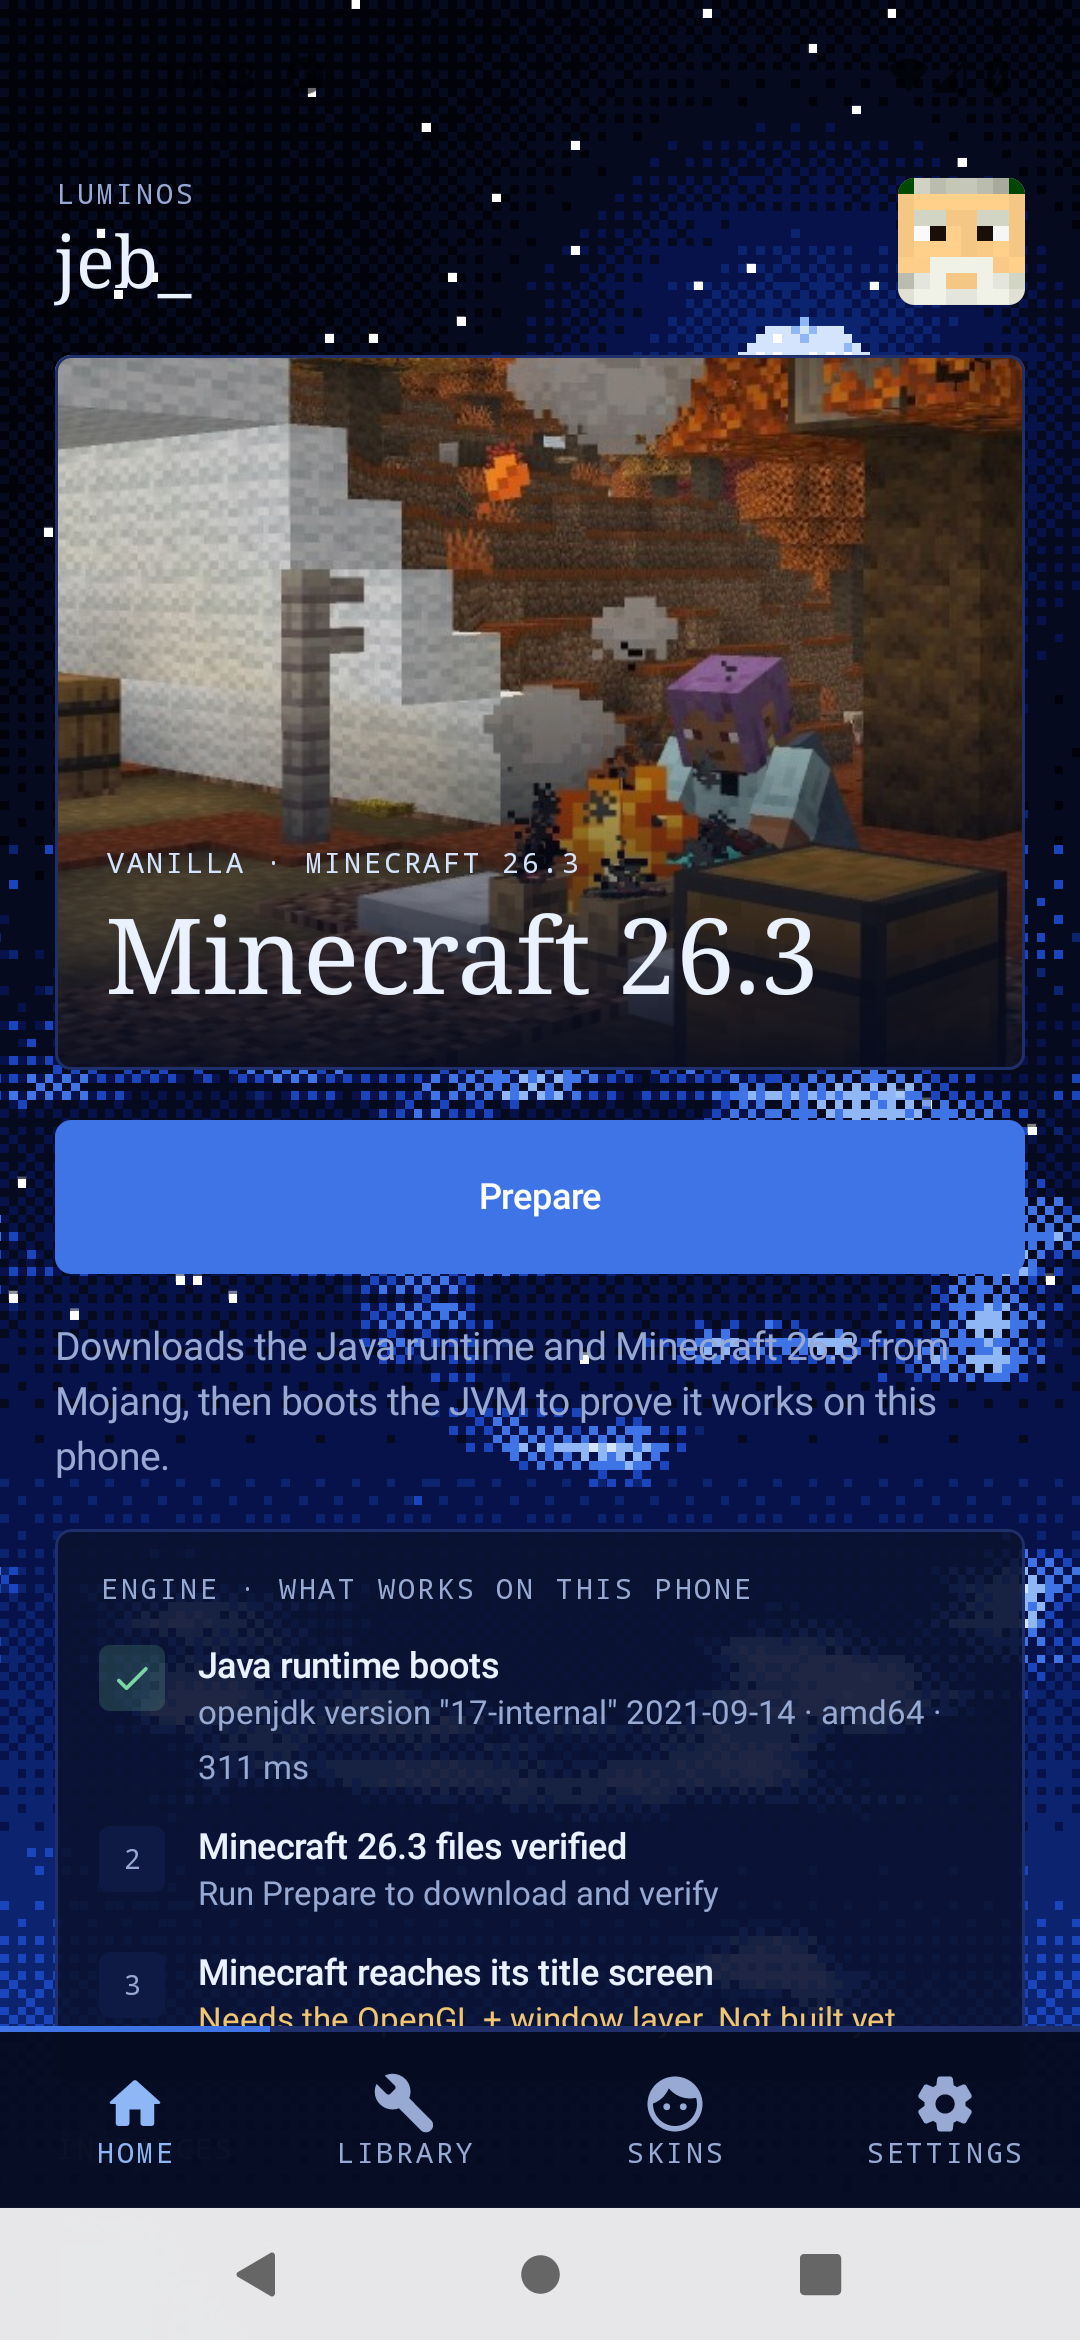
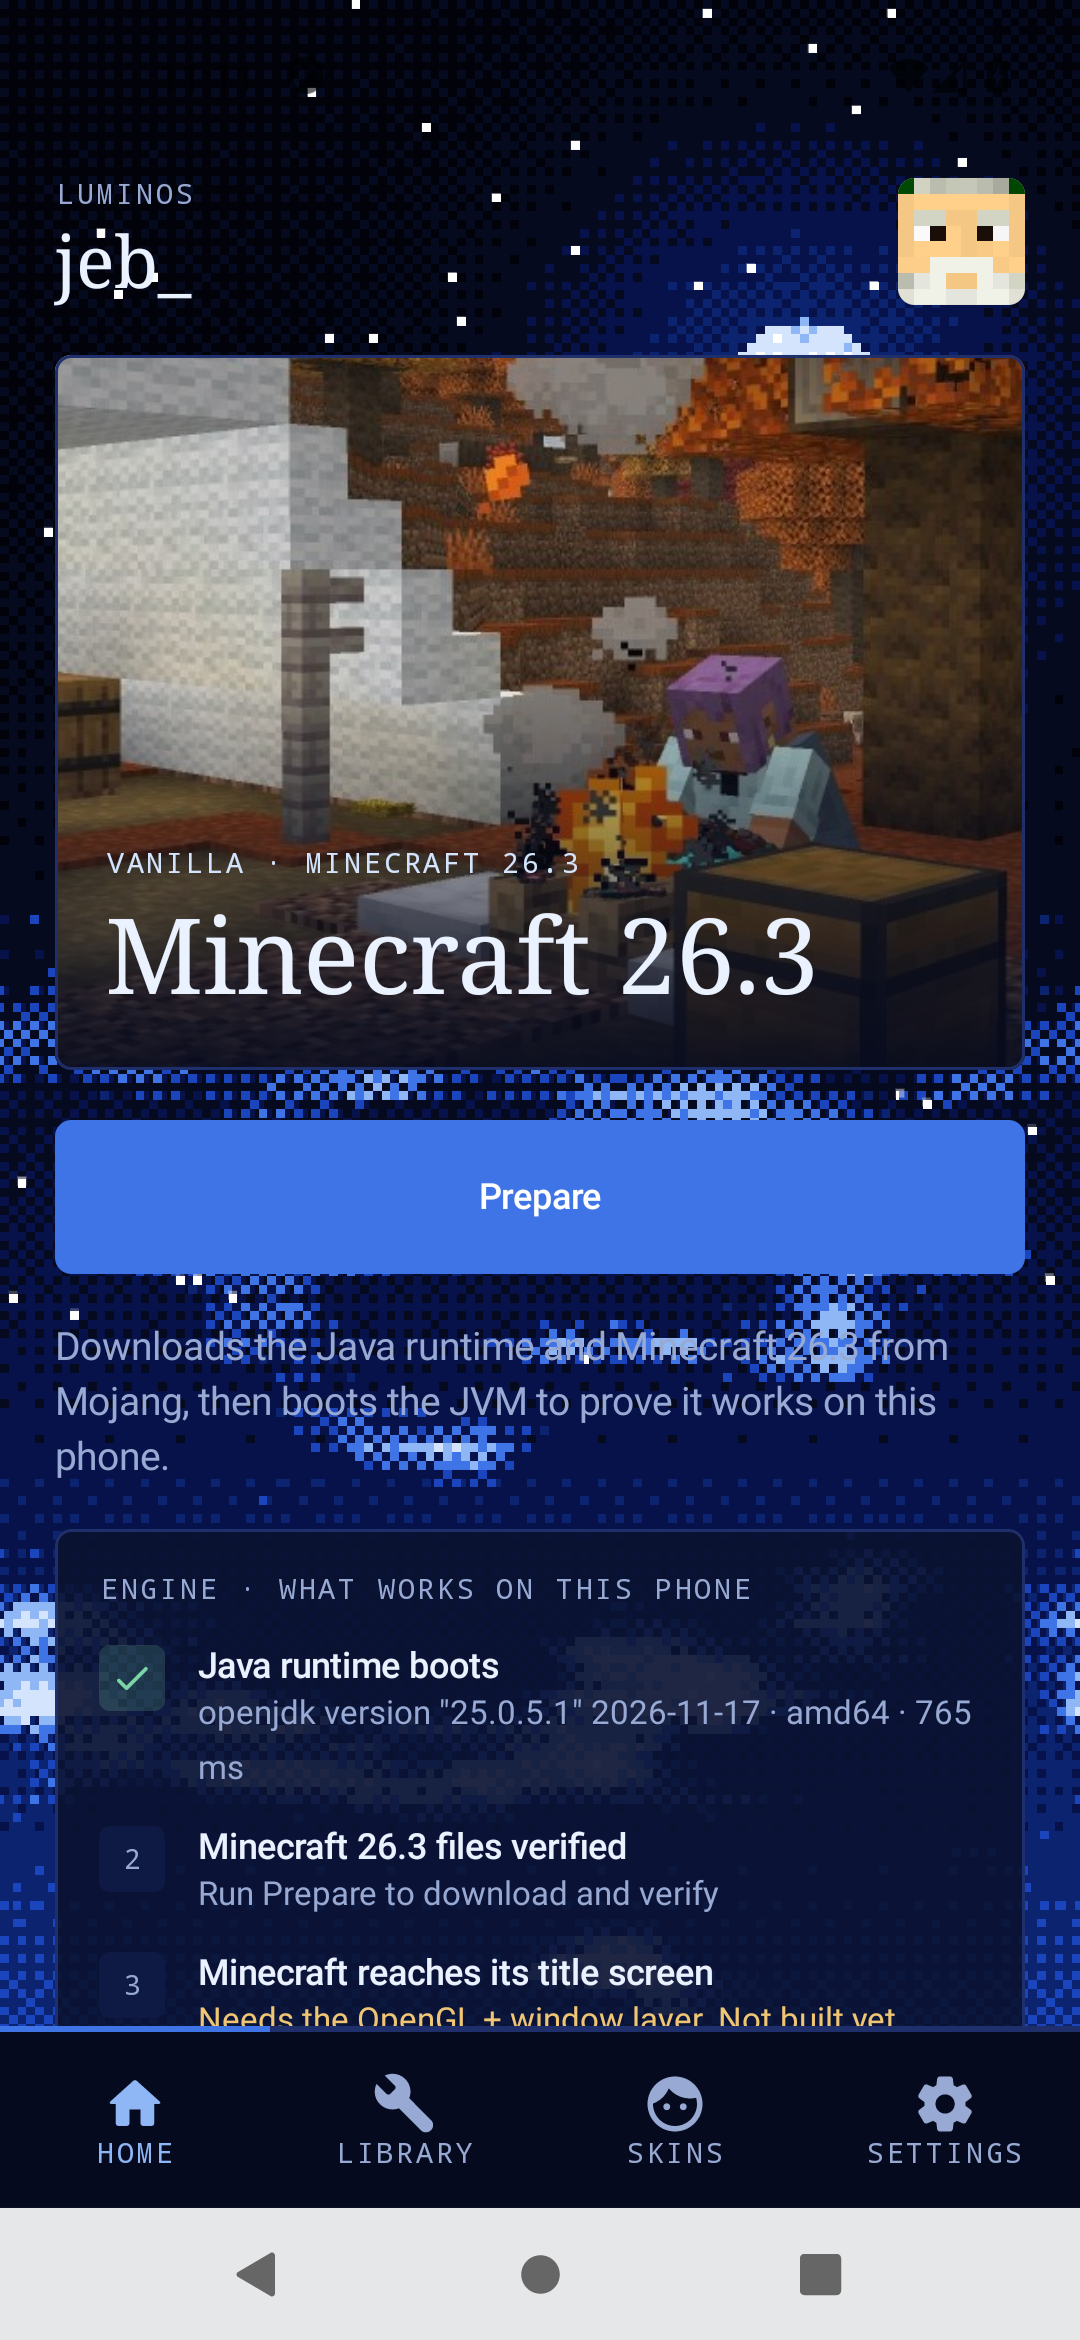
docs: START_HERE handover, CONTINUITY session 8, ledger H2b/H2c, android screenshots (rea: verify-before-claim)

diff --git a/docs/START_HERE.md b/docs/START_HERE.md
@@ -1,0 +1,44 @@
+# START HERE (handover written at the end of session 8)
+
+You will not remember anything. Read this, then `.agents/context/OWNER_CONTEXT.md` (owner directives + references + OneClient feature checklist), then `docs/BRIEF.md`, `docs/LEDGER.md`, `CONTINUITY.md`, `AGENTS.md`.
+
+## Shipped (releases)
+| What | Release | Verified how |
+|---|---|---|
+| Windows launcher 0.4.0 (installer, portable exe, SHA256SUMS; unsigned) | https://github.com/prashantchataut/Luminos/releases/tag/v0.4.0 | Downloaded `Luminos-Setup.exe`; SHA-256 equals `SHA256SUMS.txt`. Built by `release.yml`; earlier sessions ran core tests. **Nobody has installed it on a real Windows PC in this project's record.** |
+| Android 0.1.0 (APK) | https://github.com/prashantchataut/Luminos/releases/tag/android-v0.1.0 | CI built it, installed it on an Android 11 x86_64 emulator, drove the UI, screenshots. APK SHA-256 re-checked against `SHA256SUMS-android.txt`. |
+| Android 0.2.0 (APK; Java matched to game) | https://github.com/prashantchataut/Luminos/releases/tag/android-v0.2.0 | Same emulator job; the home screenshot shows OpenJDK 25.0.5.1 booted for Minecraft 26.3. (Check the release exists before trusting this row; see "Verified / not verified".) |
+| Android runtimes (Java 21/25, x86_64 + aarch64) | https://github.com/prashantchataut/Luminos/releases/tag/android-runtimes-v1 | x86_64 booted in CI. aarch64 packaged identically, never run. |
+| Client mod | `client-v0.2.0` | 1.21.4 only. |
+Screenshots of onboarding, home, library, skins, settings: `docs/screenshots/android/`.
+
+## What works
+- Windows: Rust/egui launcher with instances, Mojang/Fabric/Quilt, Modrinth, skins studio, servers page (login-mode probe), network-activity audit (no telemetry), authlib-injector accounts, luminos-auth server crate.
+- Android: install/open, onboarding with real offline UUID, real skin + cape lookup rendered as a rotating 3D model, instances with Mojang artwork, Modrinth mod browser/installer (SHA-512), Mojang file download with SHA-1, version-matched Java 21/25 download + boot, network allow-list screen, haptics, dither sky.
+
+## What does NOT work (do not claim otherwise)
+- **Minecraft does not start on Android.** No OpenGL layer, no window/input layer. The home screen says so.
+- Windows build is unsigned (SmartScreen warning). Microsoft sign-in not wired (needs an Azure app id). No `luminos://` handler, no relay/host-a-world, no cosmetics service, no multi-version client, no real in-game cover-art capture (the Android cards use Mojang's official patch-note art), Windows cards still not real captures.
+- Android: arm64 untested on any device; debug-signed APK; no touch/gamepad controls; no servers screen.
+
+## Exact next steps (in order)
+1. **Verify `android-v0.2.0`** exists with APK + checksum (curl the release API, compare SHA-256). If the tag build failed, read the log, fix, retag `android-v0.2.1`.
+2. **Android engine stage 2.5 (cheap, high value):** run the *vanilla dedicated server* jar on the emulator with the Java 21/25 runtimes and assert "Done (" in the log. Add as a CI job. This proves Minecraft code runs on Android before the GL work.
+3. **Engine stage 3:** GL + window. Candidates: GLFW shim + ANGLE (Apache-2.0) or gl4es (MIT) + LWJGL natives rebuilt for bionic (LWJGL is BSD-3). PojavLauncher is LGPL-3.0: study it, do not link or copy it into a proprietary app without a legal decision from the owner (record in `docs/BLOCKERS.md`). Milestone: title screen screenshot in CI.
+4. Windows: B1 real cover art. CI job with xvfb + Mesa llvmpipe launches the client per version and captures panoramas; store in `docs/ASSETS.md` with credit; use on cards and site. Then A2 signing wiring, A3 token storage, A4 hash verification.
+5. Create `docs/ONECLIENT_PARITY.md` from the checklist in OWNER_CONTEXT, then work it down. Resourcify-style built-in pack browser (toggleable) belongs in the client mod. Original free cosmetics set with Luminos branding (D2).
+6. C-items: offline account join tests on 5 versions in CI (C1/C2), Skins Bridge plugin (C7), relay (C5).
+7. Keep going down `docs/LEDGER.md`. The gate (`bash scripts/gate.sh`) exits non-zero until every item is truly done and CI is green on HEAD; a non-zero gate is correct today.
+
+## How to work in this environment
+- The sandbox given to the agent is a tiny Next.js scaffold, not the repo. Clone the repo into /tmp and push with a one-off header: `git -c http.extraHeader="Authorization: Basic $(printf 'x-access-token:%s' "$TOKEN" | base64 -w0)" push ...`. Never write the token to disk or a remote URL.
+- No Rust/Android SDK locally: push, then poll `https://api.github.com/repos/prashantchataut/Luminos/actions/runs?head_sha=<sha>` and read job logs. A Kotlin change costs one ~7 min CI round trip.
+- Release tags: `vX.Y.Z` Windows, `android-vX.Y.Z` APK, `android-runtimes-vN` Java runtimes, `client-vX.Y.Z` mod.
+
+## Owner actions needed
+- **Revoke the GitHub PAT that was pasted in chat** (again) and use a fine-grained token or `gh auth login`.
+- Windows signing (see `docs/WINDOWS_SECURITY.md`), Azure app id for Microsoft sign-in, an Android release keystore.
+- This repo is public. `.agents/context/` is only unobtrusive, not private. Make the repo private if the reference list should be hidden.
+
+## Licence stance
+Reference projects (OneLauncher, OneClient, Polyfrost mods) are GPL-3.0 and Luminos is proprietary: study behaviour, write original code, never copy source. The Java runtimes are OpenJDK (GPLv2 + Classpath Exception) redistributed unmodified from Termux builds; sources linked in the runtimes release notes.

diff --git a/CONTINUITY.md b/CONTINUITY.md
@@ -23,6 +23,14 @@ Luminos is a light, fast, **all-Rust** Minecraft Java launcher with a dithered-b
 ## Status legend
 ✅ done & verified · 🟡 written, not yet verified end-to-end · ⬜ planned
 
+## Session 8: first releases confirmed, Android engine stage 1b (branch `feat/android`)
+Read `docs/START_HERE.md` first; it is the current handover. Owner directives and reference list: `.agents/context/OWNER_CONTEXT.md`.
+- Verified `v0.4.0` (Windows): downloaded `Luminos-Setup.exe`, SHA-256 matches `SHA256SUMS.txt`. Unsigned.
+- Shipped `android-v0.1.0` (APK + checksums) and `android-v0.2.0`; both built and installed on the CI emulator.
+- Java 21 and 25 (Termux bionic OpenJDK) boot on the emulator; `android-runtimes-v1` release packages them for x86_64 + aarch64. aarch64 not run on a device.
+- App now picks the Java major from Mojang's version JSON. Minecraft itself still does not start on Android (needs GL + window layer).
+- `scripts/gate.sh` now checks every workflow on the exact HEAD commit. It still fails on purpose: ledger has ~117 open items.
+
 ## Session 7: trust layer + icon set (branch `feat/marathon-trust-and-icons`, PR #6)
 Brief: `docs/BRIEF.md` (marathon v8; token line redacted). Per-item state: `docs/LEDGER.md`. Skills: `.agents/skills/` (+ `docs/DESIGN_RULES.md`).
 ### Done and verified (ran it in the sandbox)

diff --git a/.agents/context/OWNER_CONTEXT.md b/.agents/context/OWNER_CONTEXT.md
@@ -39,7 +39,7 @@ Themes: dark/light variants, accent colour picker, animations toggle. Profiles: 
 HUD Design Studio: drag/resize widgets on the live game view, size badge, lock/hide/delete, GUI scale, background, text colour/shadow, visibility per context (F3, tab list, GUIs, chat), widget modes (e.g. keystrokes Normal/Custom).
 Main menu extras: Quickplay dropdown with server cards, Host World wizard (visibility: friends, game mode, difficulty, cheats, private relay, share resource pack), Social, Cosmetics, 3D skin preview on the main menu.
 Mod list seen: Chatting, CrashPatch, OverflowAnimations, DamageTint, PolyBlur, PolyTime, PolyWeather, PolyHitbox, PolyNametag, OverflowParticles, ParticleGlow, Overlay Tweaks, Simple Block Overlay, Better Screens, Spoty Widget, LambdaBetterGrass.
-Luminos must implement each as an original feature (client mod or launcher feature) and tick it in `docs/ONECLIENT_PARITY.md` when it works in a real game.
+Luminos must implement each as an original feature (client mod or launcher feature). `docs/ONECLIENT_PARITY.md` does not exist yet: create it from this checklist and tick an item only when it works in a real game.
 
 ## Imagery the owner liked (attached images, session 8)
 - Pixel-art flower beside serif headline (dithered, warm, calm): the dithered-blue site look.

diff --git a/docs/LEDGER.md b/docs/LEDGER.md
@@ -152,6 +152,8 @@ Pain-point map: docs/research/USER_PAIN.md (each complaint cites ledger IDs).
 - [ ] H10 Android CI (build, lint, unit, emulator UI, JNI smoke)
 - [x] H10a Release APK built in CI and attached to a GitHub Release with SHA256SUMS — evidence: https://github.com/prashantchataut/Luminos/releases/tag/android-v0.1.0
 - [x] H10b Emulator job installs, opens, drives onboarding/home/library/skins and fails on crash — evidence: android/ci/emulator_test.sh
+- [x] H2b Android-native Java 21 and 25 compile and run a program on the x86_64 emulator (CI log) — evidence: android/ci/jre_probe.sh
+- [x] H2c App downloads the Java major Mojang's version JSON asks for, SHA-256 verified, and boots it (OpenJDK 25.0.5.1 for 26.3) — evidence: docs/screenshots/android/04-home.png
 - [x] H2a JVM (OpenJDK 17 for Android) boots on the x86_64 emulator, in the CI log — evidence: android/ci/jvm_smoke.sh
 - [x] H10c Android screenshots of onboarding, home, library, skins committed — evidence: docs/screenshots/android
 
